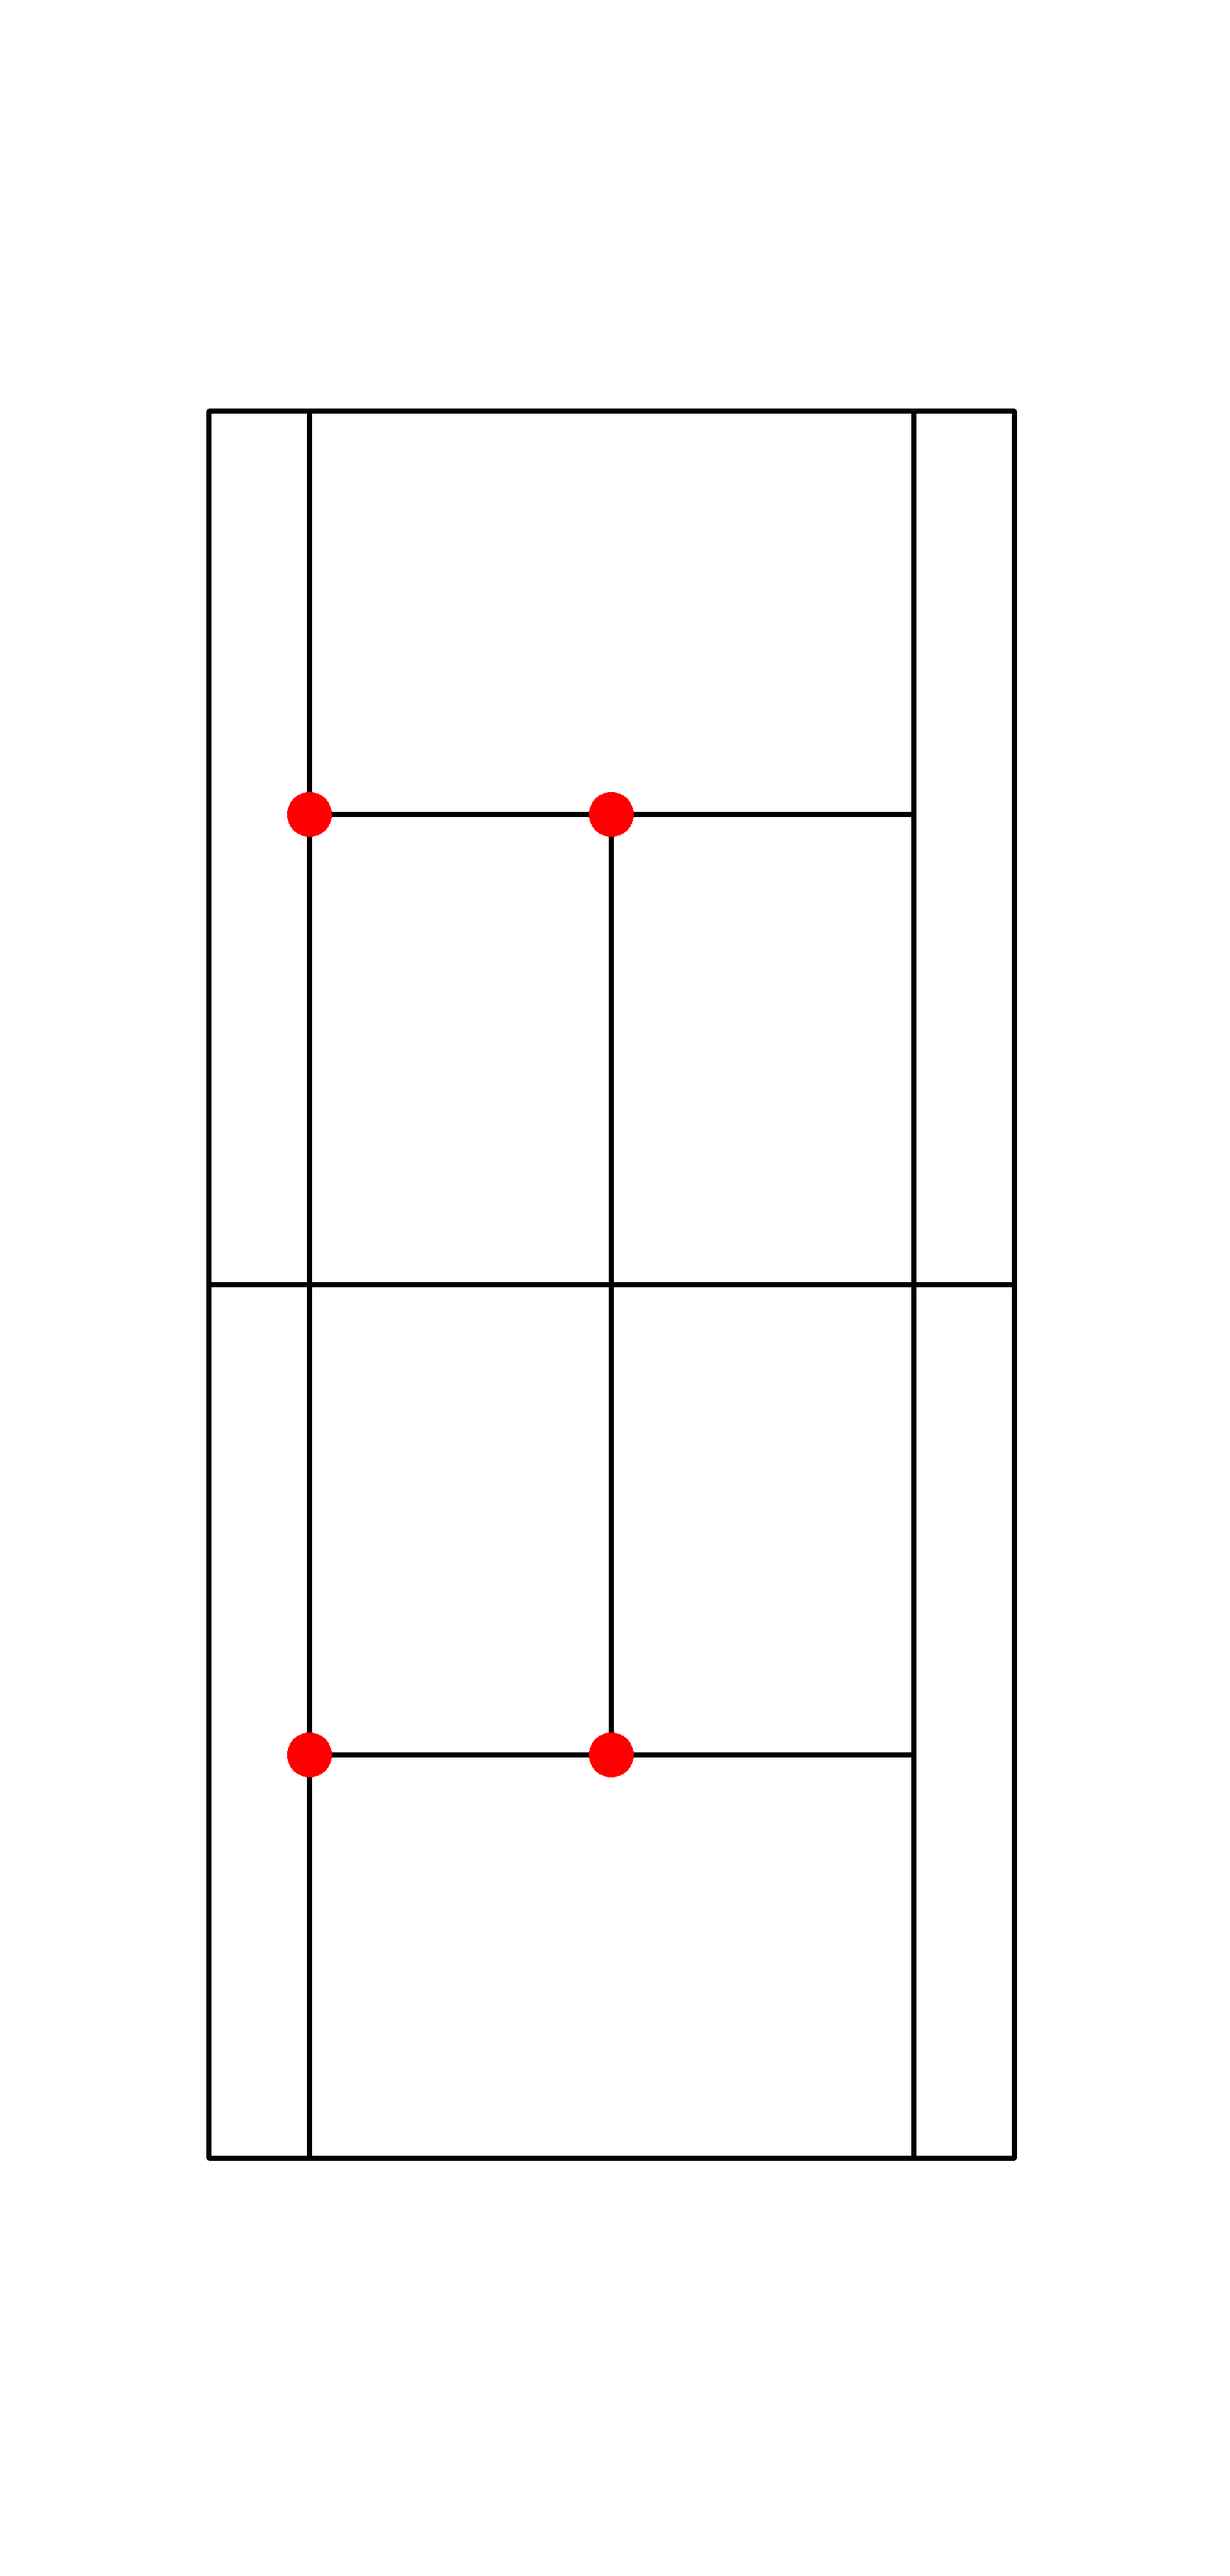
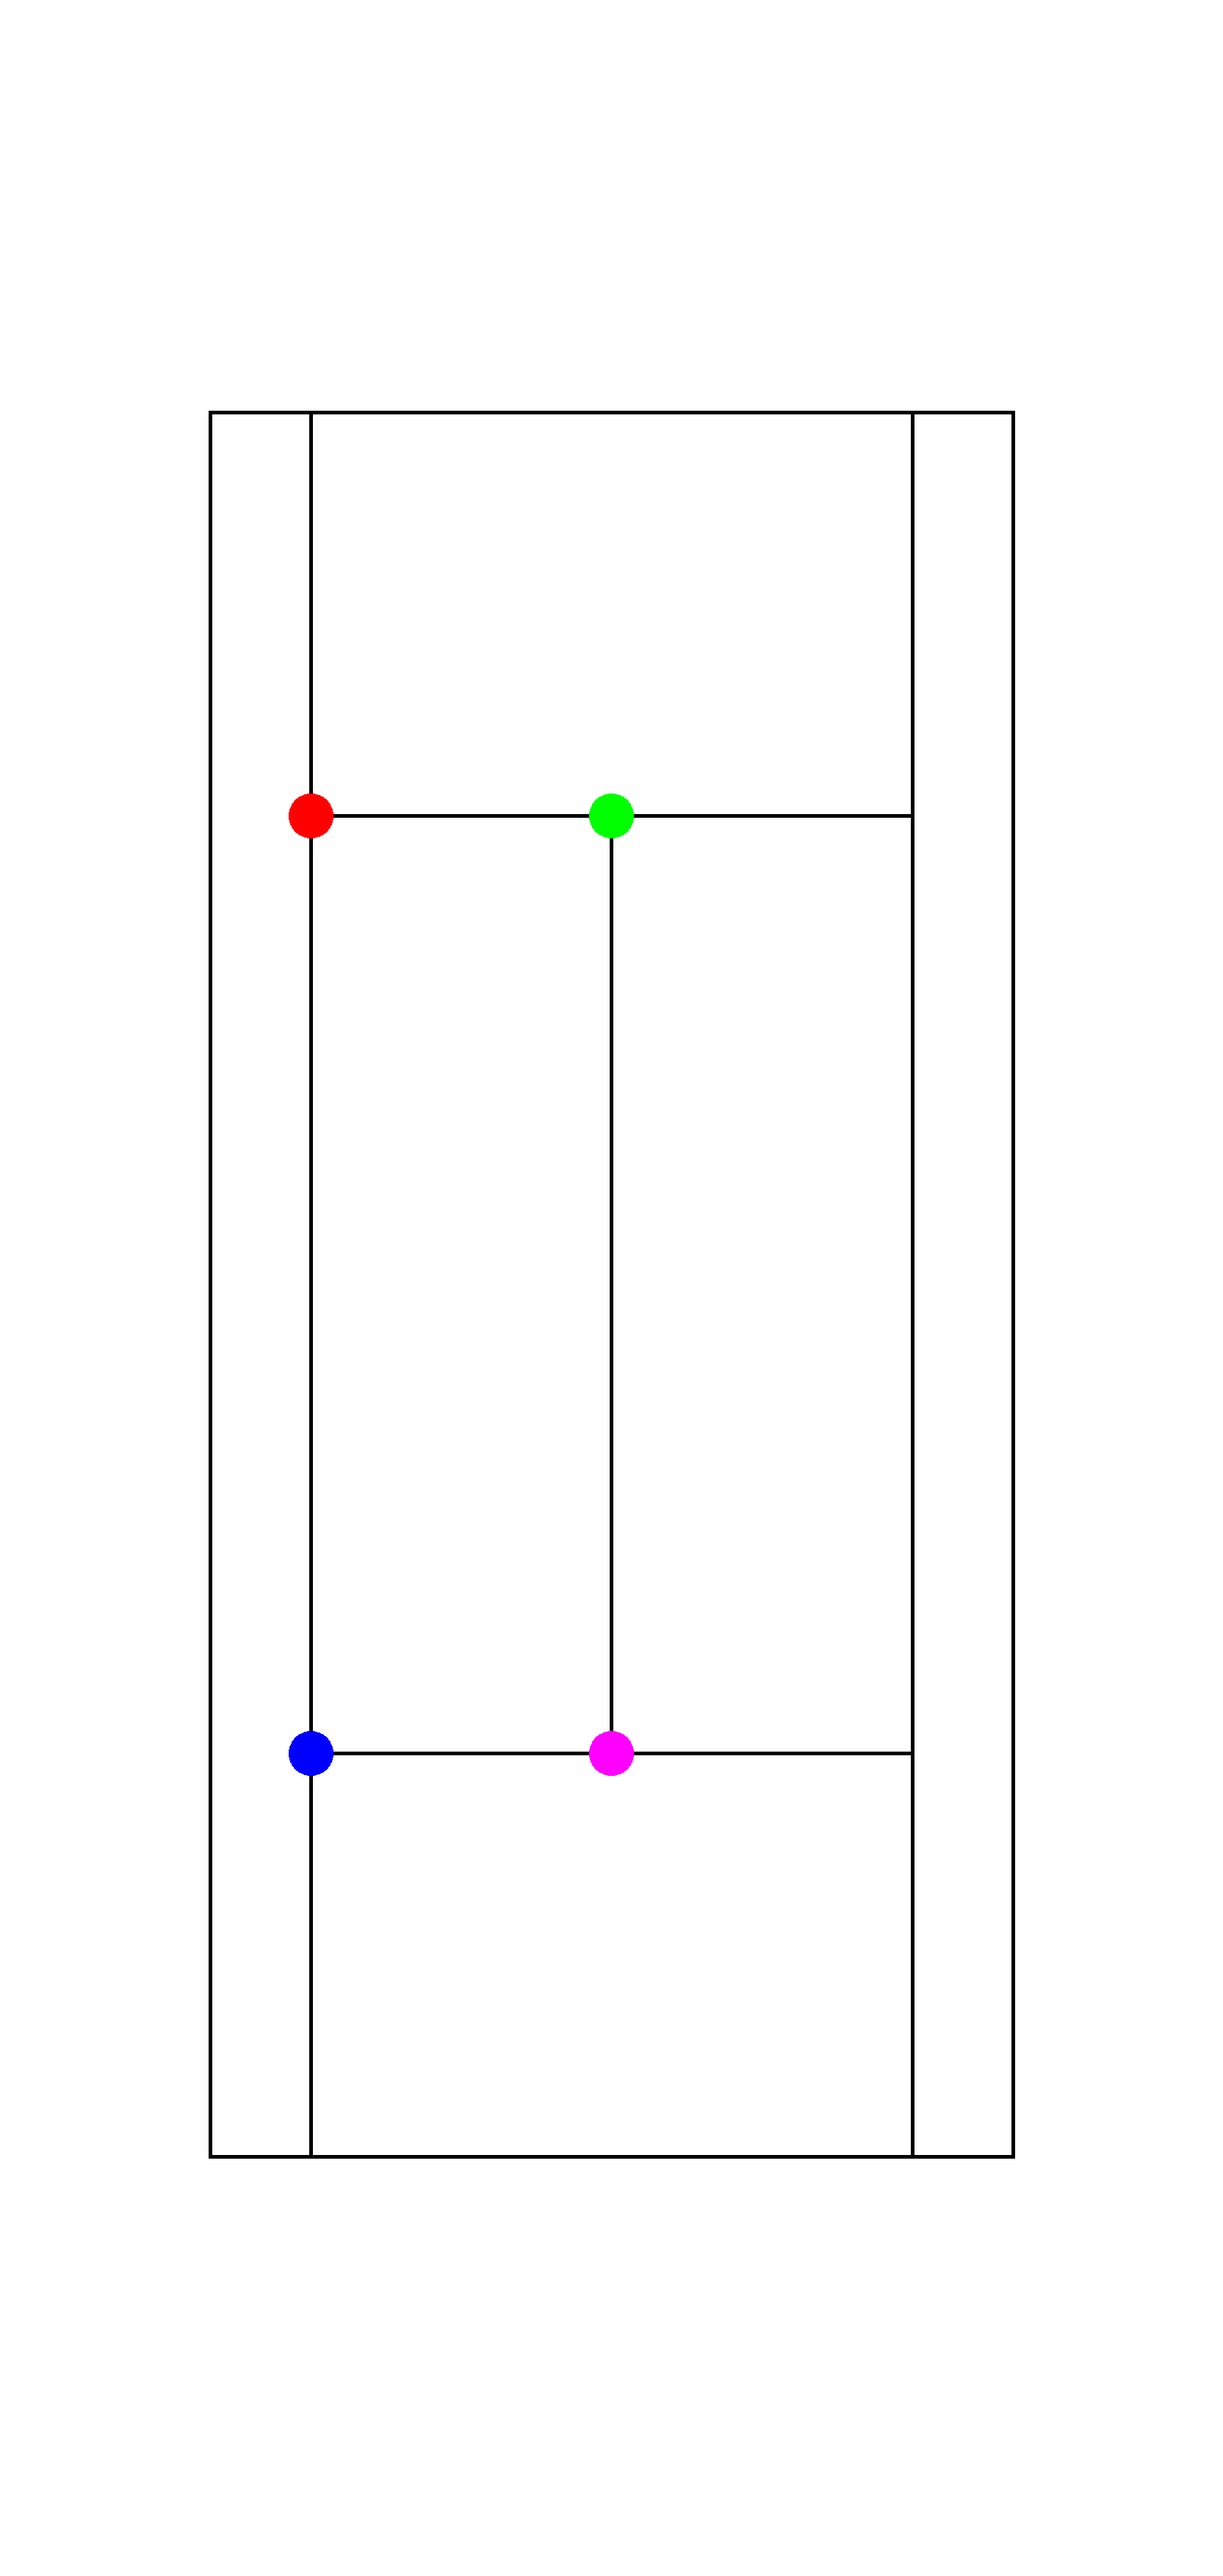
added bottom player detection, still need some work on it

diff --git a/src/detection.py b/src/detection.py
@@ -13,19 +13,87 @@ class DetectionModel:
         self.detection_model.eval()
         self.dtype = dtype
         self.PERSON_LABEL = 1
-        self.RACKET_LABEL = 430
-        self.BALL_LABEL = 370
-        self.PERSON_SCORE_MIN = 0.4
+        self.RACKET_LABEL = 43
+        self.BALL_LABEL = 37
+        self.PERSON_SCORE_MIN = 0.85
         self.RACKET_SCORE_MIN = 0.6
         self.BALL_SCORE_MIN = 0.6
+        self.v_width = 0
+        self.v_height = 0
+        self.player_1_boxes = []
+        self.player_2_boxes = []
+        self.persons_boxes = []
+        self.counter = 0
         self.im_diff = ImageDiff()
         self.backSub = cv2.createBackgroundSubtractorKNN()
 
-    def detect_objects(self, image):
-        mask = self.find_canadicate(image)
-        image[mask == 0, :] = (0,0,0)
+    def detect_player_1(self, image, court_detector):
         boxes = np.zeros_like(image)
 
+        self.v_height, self.v_width = image.shape[:2]
+        if len(self.player_1_boxes) == 0:
+            court_type = 1
+            white_ref = court_detector.court_reference.get_court_mask(court_type)
+            white_mask = cv2.warpPerspective(white_ref, court_detector.court_warp_matrix, image.shape[1::-1])
+            # TODO find different way to add more space at the top
+            if court_type == 2:
+                white_mask = cv2.dilate(white_mask, np.ones((50, 1)), anchor=(0, 0))
+            image_court = image.copy()
+            image_court[white_mask == 0, :] = (0, 0, 0)
+            '''max_values = np.max(np.max(image_court, axis=1), axis=1)
+            max_values_index = np.where(max_values > 0)[0]
+            top_y = max_values_index[0]
+            bottom_y = max_values_index[-1]'''
+            # cv2.imwrite('../report/frame_only_court.png', image_court)
+            cv2.imshow('res', image_court)
+            if cv2.waitKey(0) & 0xff == 27:
+                cv2.destroyAllWindows()
+
+            # mask = self.find_canadicate(image)
+            # image[mask == 0, :] = (0,0,0)
+            # image_court = image_court[top_y:bottom_y, :, :]
+
+            persons_boxes = self._detect(image_court)
+            if len(persons_boxes) > 0:
+                # biggest_box = sorted(persons_boxes, key=lambda x: area_of_box(x), reverse=True)[0]
+                bottom_box = max(persons_boxes, key=lambda x: x[3])
+                self.player_1_boxes.append(bottom_box)
+        else:
+            xt, yt, xb, yb = self.player_1_boxes[-1]
+            xt, yt, xb, yb = int(xt), int(yt), int(xb), int(yb)
+            margin = 100
+            box_corners = (max(xt - margin, 0), max(yt - margin, 0), min(xb + margin, self.v_width), min(yb + margin, self.v_height))
+            trimmed_image = image[max(yt - margin, 0): min(yb + margin, self.v_height), max(xt - margin, 0): min(xb + margin, self.v_width), :]
+            '''cv2.imshow('res', trimmed_image)
+            if cv2.waitKey(0) & 0xff == 27:
+                cv2.destroyAllWindows()'''
+
+            persons_boxes = self._detect(trimmed_image)
+            if len(persons_boxes) > 0:
+                c1 = center_of_box(self.player_1_boxes[-1])
+                closest_box = None
+                smallest_dist = np.inf
+                for box in persons_boxes:
+                    orig_box_location = (box_corners[0] + box[0], box_corners[1] + box[1], box_corners[0] + box[2], box_corners[1] + box[3])
+                    c2 = center_of_box(orig_box_location)
+                    distance = np.linalg.norm(np.array(c1) - np.array(c2))
+                    if distance < smallest_dist:
+                        smallest_dist = distance
+                        closest_box = orig_box_location
+                if smallest_dist < 100:
+                    self.counter = 0
+                    self.player_1_boxes.append(closest_box)
+                else:
+                    self.counter += 1
+                    self.player_1_boxes.append(self.player_1_boxes[-1])
+            else:
+                self.player_1_boxes.append(self.player_1_boxes[-1])
+        cv2.rectangle(boxes, (int(self.player_1_boxes[-1][0]), int(self.player_1_boxes[-1][1])),
+                      (int(self.player_1_boxes[-1][2]), int(self.player_1_boxes[-1][3])), [255, 0, 255], 2)
+
+        return boxes
+
+    def _detect(self, image):
         # creating torch.tensor from the image ndarray
         frame_t = image.transpose((2, 0, 1)) / 255
         frame_tensor = torch.from_numpy(frame_t).unsqueeze(0).type(self.dtype)
@@ -35,21 +103,14 @@ class DetectionModel:
             # forward pass
             p = self.detection_model(frame_tensor)
 
+        persons_boxes = []
         for box, label, score in zip(p[0]['boxes'][:], p[0]['labels'], p[0]['scores']):
             if label == self.PERSON_LABEL and score > self.PERSON_SCORE_MIN:
-                cv2.rectangle(boxes, (int(box[0]), int(box[1])), (int(box[2]), int(box[3])), [255, 0, 255], 2)
+                '''cv2.rectangle(boxes, (int(box[0]), int(box[1])), (int(box[2]), int(box[3])), [255, 0, 255], 2)
                 cv2.putText(boxes, 'Person %.3f' % score, (int(box[0]) - 10, int(box[1] - 10)),
-                            cv2.FONT_HERSHEY_SIMPLEX, 0.5, (255, 0, 255), 2)
-            if label == self.RACKET_LABEL and score > self.RACKET_SCORE_MIN:
-                cv2.rectangle(boxes, (int(box[0]), int(box[1])), (int(box[2]), int(box[3])), [255, 0, 0], 2)
-                cv2.putText(image, 'Racket %.3f' % score, (int(box[0]) - 10, int(box[1] - 10)),
-                            cv2.FONT_HERSHEY_SIMPLEX, 0.5, (0, 255, 0), 2)
-            if label == self.BALL_LABEL and score > self.BALL_SCORE_MIN:
-                cv2.rectangle(boxes, (int(box[0]), int(box[1])), (int(box[2]), int(box[3])), [0, 255, 0], 2)
-                cv2.putText(image, 'Ball  %.3f' % score, (int(box[0]) - 10, int(box[1] - 10)),
-                            cv2.FONT_HERSHEY_SIMPLEX, 0.5, (0, 255, 0), 2)
-
-        return boxes
+                            cv2.FONT_HERSHEY_SIMPLEX, 0.5, (255, 0, 255), 2)'''
+                persons_boxes.append(box.detach().cpu())
+        return persons_boxes
 
     def find_canadicate(self, image):
         frame = image.copy()
@@ -62,26 +123,31 @@ class DetectionModel:
         diff = self.im_diff.diff(frame)
 
         res = diff * fgMask * 255
-        res = cv2.dilate(res, np.ones((25,25)))
+        res = cv2.dilate(res, np.ones((25, 25)))
         contours, _ = cv2.findContours(res, cv2.RETR_LIST, cv2.CHAIN_APPROX_SIMPLE)
-        contours_poly = None
-        boundRect = None
+        contours_poly = []
+        boundRects = []
         max_area = 0
         max_c = None
         for c in contours:
-            if cv2.contourArea(c) > max_area:
-                max_area = cv2.contourArea(c)
-                max_c = c
-
-                contours_poly = cv2.approxPolyDP(c, 3, True)
-                boundRect = cv2.boundingRect(contours_poly)
+            if 200 < cv2.contourArea(c) < 12000:
+                contours_poly.append(cv2.approxPolyDP(c, 3, True))
+                boundRects.append(cv2.boundingRect(contours_poly[-1]))
+        if len(contours_poly) > 6:
+            return
 
         drawing = np.zeros((res.shape[0], res.shape[1], 3), dtype=np.uint8)
 
+        for boundRect in boundRects:
+            box = image[int(boundRect[1]):int(boundRect[1] + boundRect[3]),
+                  int(boundRect[0]):int(boundRect[0] + boundRect[2])]
+            cv2.imshow('res', box)
+            if cv2.waitKey(0) & 0xff == 27:
+                cv2.destroyAllWindows()
 
-        color = (0,0, 255)
-        #cv2.drawContours(drawing, contours_poly, i, color)
-        cv2.rectangle(drawing, (int(boundRect[0]), int(boundRect[1])),(int(boundRect[0] + boundRect[2]), int(boundRect[1] + boundRect[3])), color, 2,)
+            color = (0, 0, 255)
+            cv2.rectangle(drawing, (int(boundRect[0]), int(boundRect[1])),
+                          (int(boundRect[0] + boundRect[2]), int(boundRect[1] + boundRect[3])), color, 2, )
 
         '''cv2.imshow('Contours', res)
         c = image.copy()
@@ -91,6 +157,18 @@ class DetectionModel:
         if cv2.waitKey(0) & 0xff == 27:
             cv2.destroyAllWindows()'''
         return res
+
+
+def center_of_box(box):
+    height = box[3] - box[1]
+    width = box[2] - box[0]
+    return box[0] + width / 2, box[1] + height / 2
+
+
+def area_of_box(box):
+    height = box[3] - box[1]
+    width = box[2] - box[0]
+    return height * width
 
 
 class ImageDiff:

diff --git a/src/process.py b/src/process.py
@@ -149,6 +149,7 @@ def video_process(video_path, show_video=False, include_video=True,
         if ret:
             if frame_i == 1:
                 court_detector.detect(frame)
+                print(f'Court detection {"Success" if court_detector.success_flag else "Failed"}')
             if court:
                 if court_detector.check_court_movement(frame):
                     court_detector.detect(frame)
@@ -158,7 +159,7 @@ def video_process(video_path, show_video=False, include_video=True,
             stickman_marks = np.zeros_like(frame)
 
             # detect
-            boxes = detection_model.detect_objects(frame.copy())
+            boxes = detection_model.detect_player_1(frame.copy(), court_detector)
 
             # Create stick man figure (pose detection)
             if stickman:
@@ -173,7 +174,7 @@ def video_process(video_path, show_video=False, include_video=True,
             # Output frame and save it
             if show_video:
                 cv2.imshow('frame', frame)
-            # cv2.imwrite('../report/persons_detections_1.png', frame)
+            # cv2.imwrite('../report/persons_detections_4.png', frame)
             out.write(frame)
             total_time += (time.time() - start_time)
             print('Processing frame %d/%d  FPS %04f' % (frame_i, length, frame_i / total_time), '\r', end='')
@@ -208,5 +209,5 @@ def video_process(video_path, show_video=False, include_video=True,
 
 
 s = time.time()
-video_process(video_path='../videos/vid1.mp4', show_video=True, stickman=False, stickman_box=False, smoothing=False, court=False)
+video_process(video_path='../videos/vid2.mp4', show_video=True, stickman=False, stickman_box=False, smoothing=False, court=False)
 print(time.time() - s)

diff --git a/src/court_reference.py b/src/court_reference.py
@@ -72,6 +72,14 @@ class CourtReference:
                 c = cv2.circle(c, p, 15, (0, 0, 255), 30)
             cv2.imwrite(f'court_configurations/court_conf_{i}.png', c)
 
+    def get_court_mask(self, mask_type=0):
+        mask = np.ones_like(self.court)
+        if mask_type == 1:  # Bottom half court
+            mask[:self.net[0][1] - 1000, :] = 0
+        elif mask_type == 2:  # Top half court
+            mask[self.net[0][1]:, :] = 0
+        return mask
+
 
 if __name__ == '__main__':
     c = CourtReference()

diff --git a/src/court_detection.py b/src/court_detection.py
@@ -32,7 +32,7 @@ class CourtDetector:
         self.bottom_inner_line = None
         self.success_flag = False
         self.success_accuracy = 80
-        self.success_score = 2000
+        self.success_score = 1000
 
     def detect(self, frame):
         self.frame = frame
